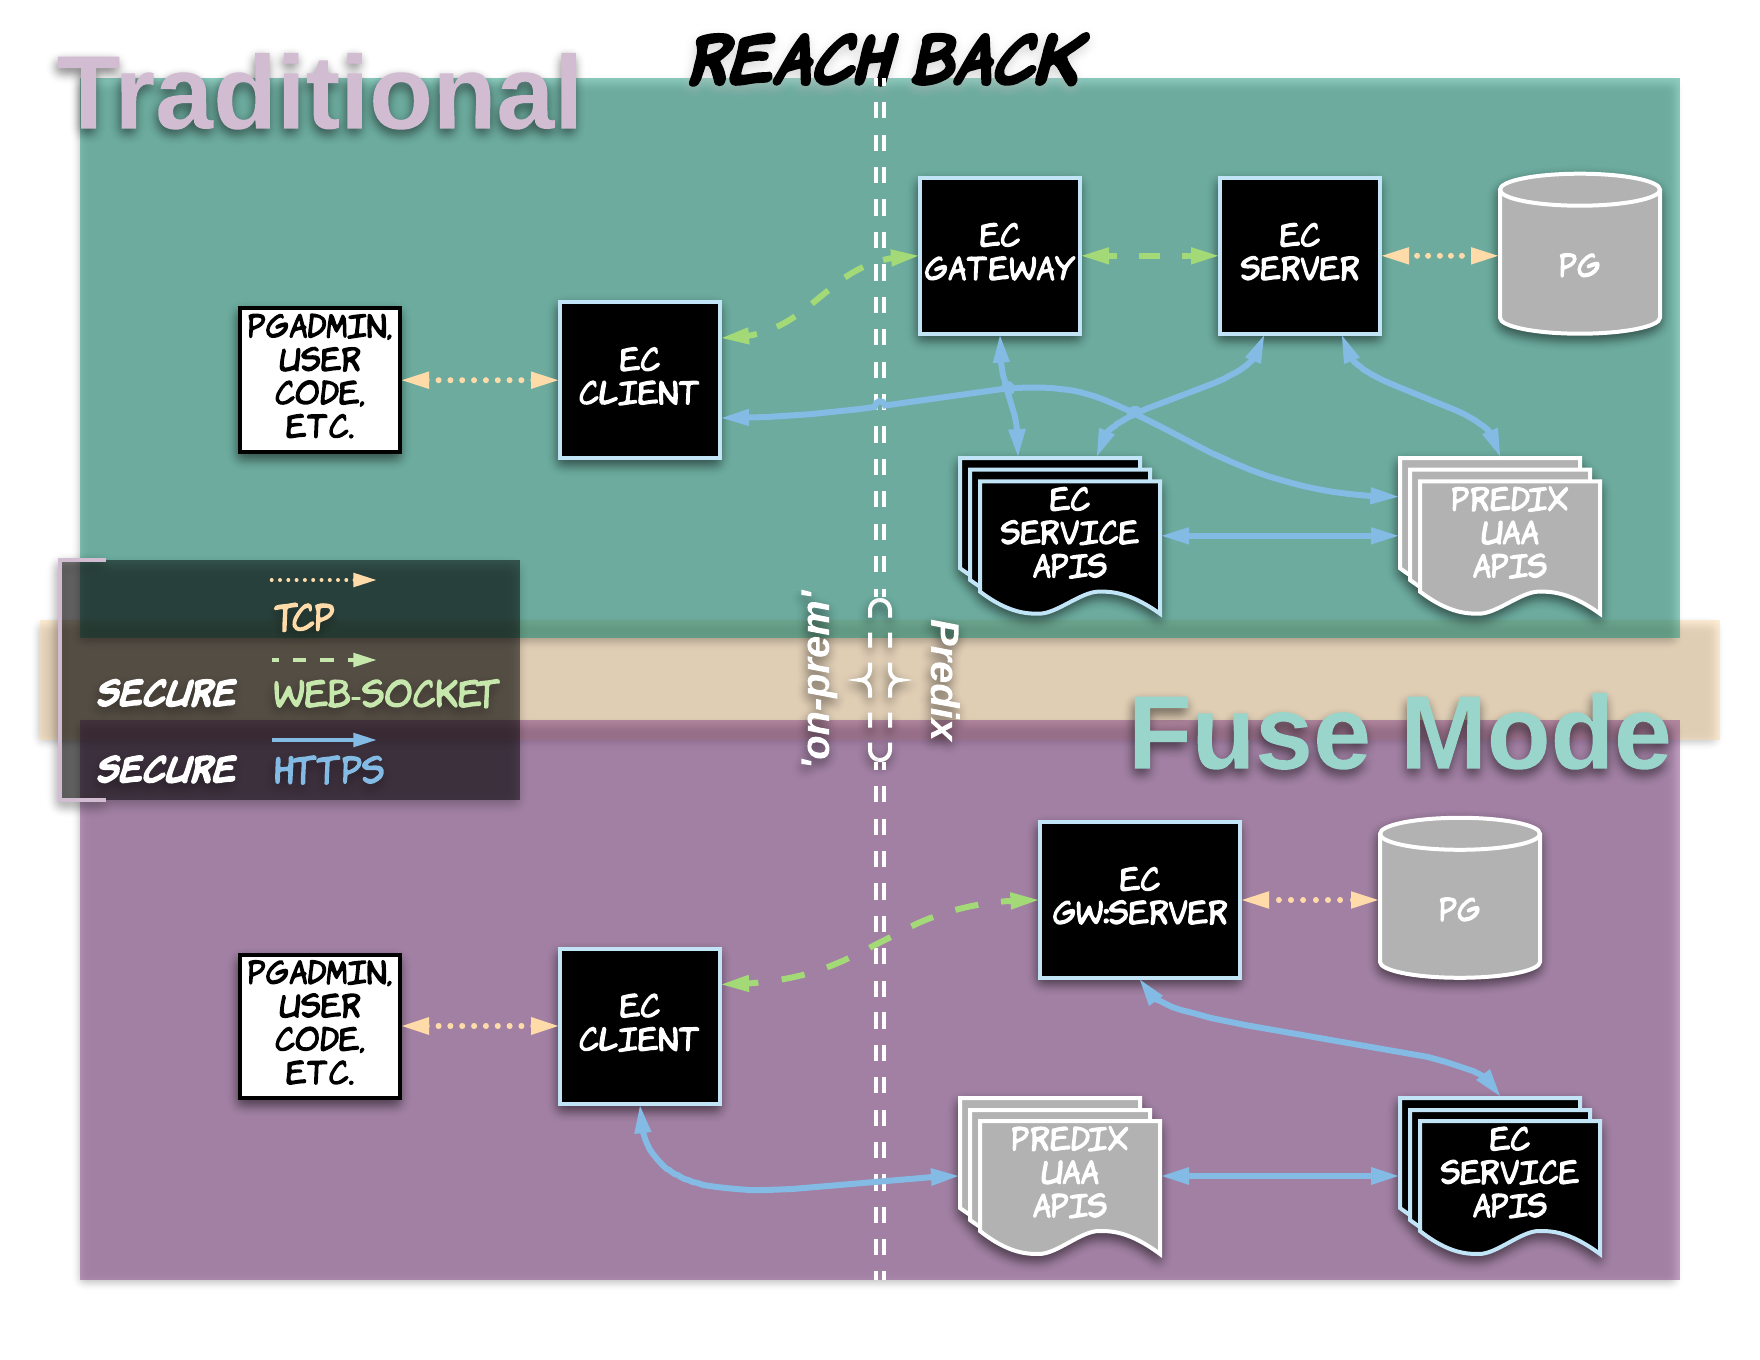
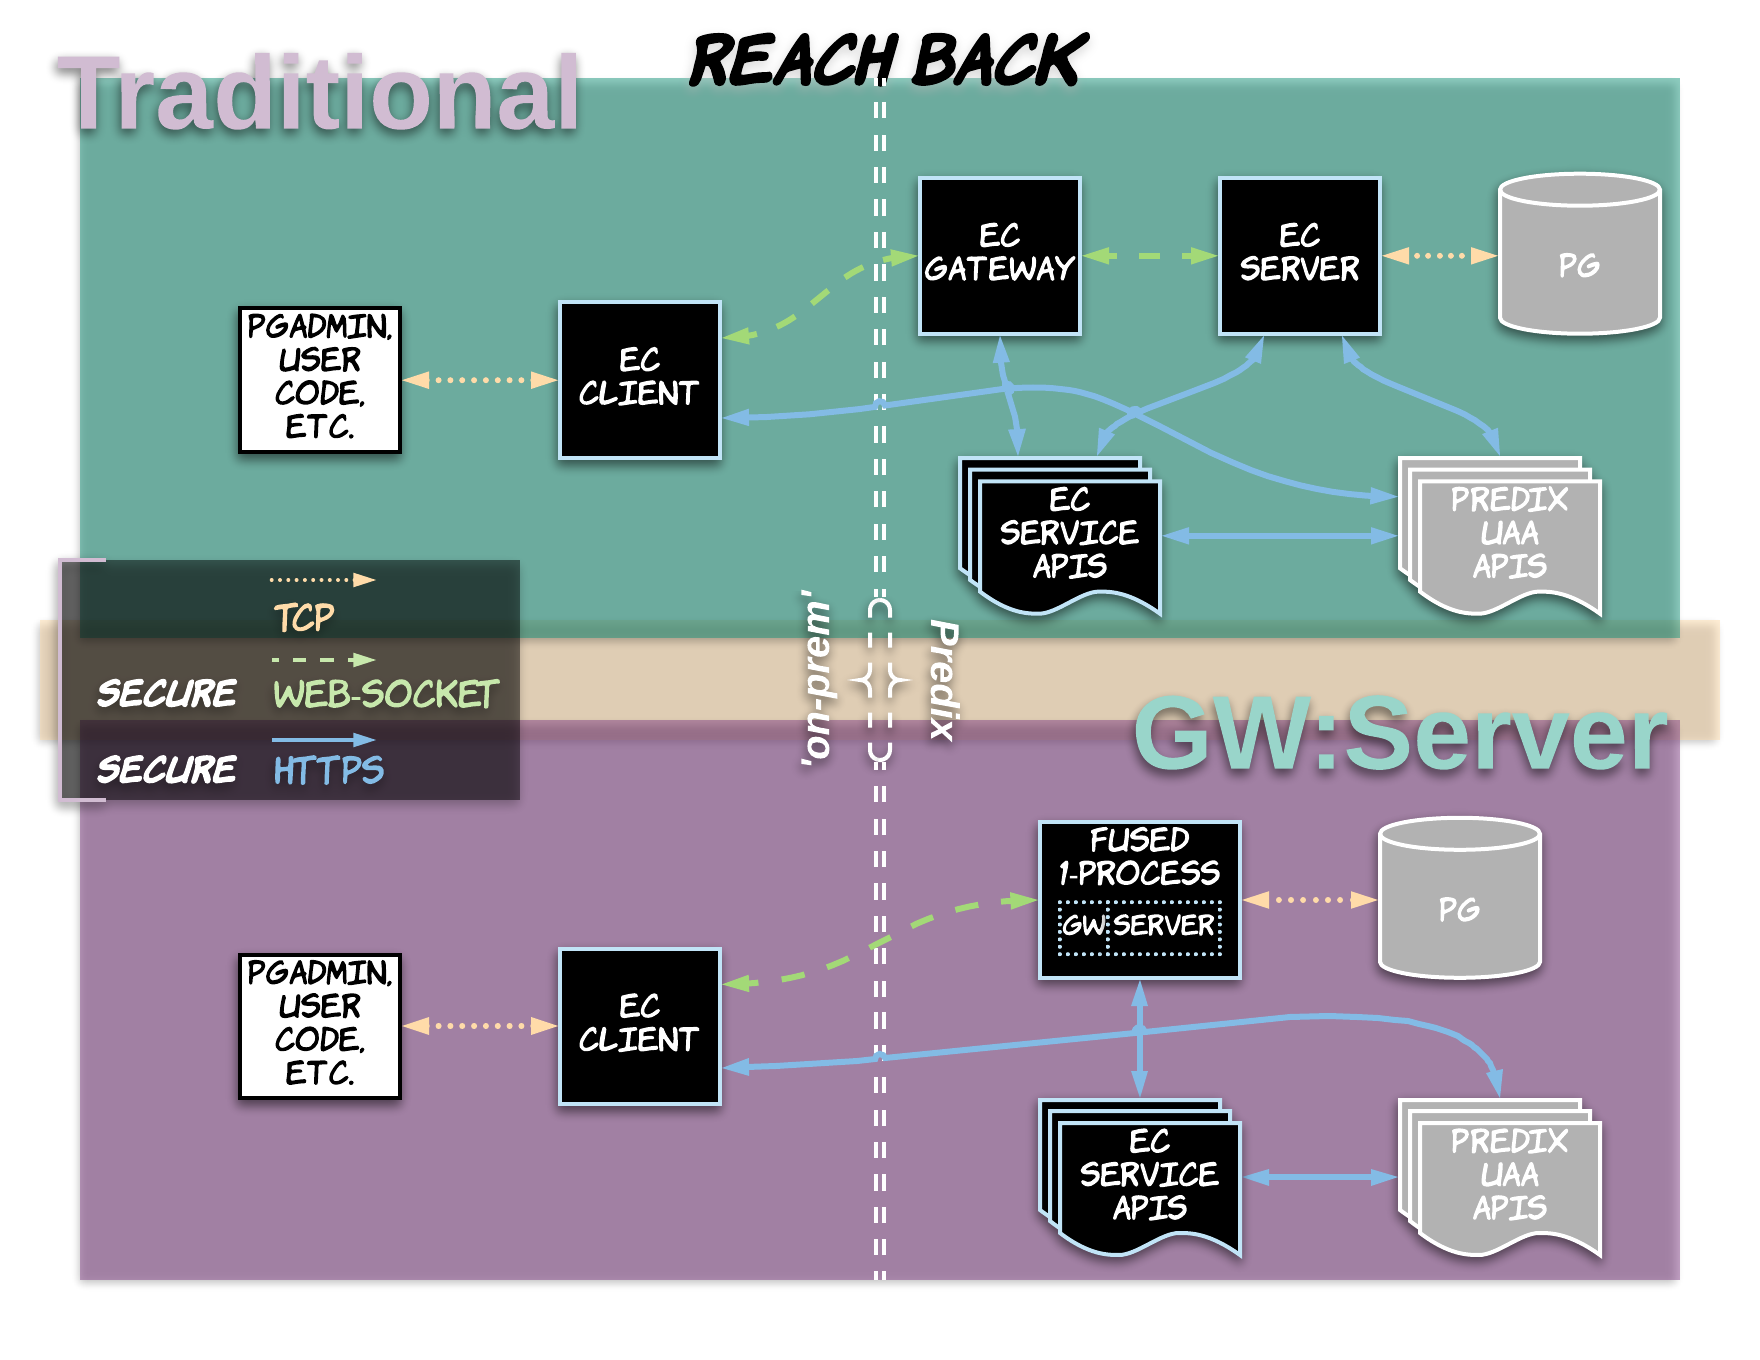
updated some images after feedback, starting to update text content

Changed region(s): [[0.375, 0.4941, 0.9688, 0.9265], [0.4062, 0.7721, 0.5312, 0.8029], [0.3438, 0.8029, 0.375, 0.8338]]

diff --git a/ec-modes.md b/ec-modes.md
@@ -2,43 +2,51 @@
 
 # EC 'Modes' and Use-Case Examples
 
-This document is designed to give a high-level understanding of the two primary 'modes' that EC can be used in ('Fuse Mode' and 'Traditional'), as well as provide abstract examples of very common use cases where EC is utilized. The purpose of the latter is to guide users in understanding how EC will fit into their existing architecture and dependencies, and to help 'visualize' this via provided diagrams.
+In this page you will be able to find all the answers for all things **'modes'**, in regards to Enterprise Connect (EC) use-cases and *agents*. Please note that all links are placed for the ease of navigation in subsequent reads and visits, but the information is intended to be digestable in a flowing and linear way, start to finish.
 
 * [What are 'Modes'?](#what-are-modes)
-* [Use-Case Examples](#use-case-examples)
+* [Choosing Between Modes](#choosing-between-modes)
+* [Use-Case Mode Comparison](#use-case-mode-comparison)
 
----
 
 ## What are 'Modes'?
 
-Up until late 2018, the EC agents primarily only ran in a single way, or 'mode'. That is, for the most basic use case, users would need to run an EC agent gateway, an EC agent server, and an EC agent client. This is still completely valid, and will be referred to as **traditional mode**. 
+For the context of this page and topic, 'mode' can refer to one of five *agent* **modes**, or the choice between using **tradititonal** *agents* vs **fused** *agents*. 
 
-As of January 2019, a new mode is available (in beta, pending production release) in which either the EC agent gateway and server processes are *fused* into a single process, or the EC agent gateway and client processes are *fused* into a single process. This results in a secure streamlining of various authorizations, and results in fewer API calls for EC-side purposes, such as the EC agent server fetching a 'gateway list' from the EC Service APIs. This is what we call **fuse mode**.
+---
 
-* [Traditional Modes](#traditional-modes)
-* [Fuse Modes](#fuse-modes)
+First, on a high-level, we can look at the way in which the EC landscape is laid out as a 'mode' of sorts: either [**traditional mode**](#traditional-modes) which uses a [**traditonal** *agent gateway*](#gateway-mode), or [**fuse mode**](#fuse-modes) which combines either the *agent server* or *agent client* with the *agent gateway* into a single process which streamlines and reduces some network activity.
+
+Then, on the *EC Agent* level, there are 5 distinct *agent* **modes** available: **gateway**, **server**, **client**, **gw:server**, and **gw:client**. Read and click on to learn more about these modes.
+
 * [Choosing Between Modes](#choosing-between-modes)
 
 ### Traditional Modes
 
-> The traditional mode consists of running at least three EC agents: a gateway, a server, and a client. 
+The **traditional mode** consists of running at least three *EC Agents*: a *server*, a *client*, and most importantly a **traditional** *gateway*. 
+
+#### Gateway Mode
+> The *EC Agent* running in **gateway mode** serves as the foundation for **client** and **server** interactions, by making available a 'public' URL that the other *agents* can access to establish a secure web-socket.
 
 ![Gateway Mode](./.images/gatewayMode.png) 
-> The EC *agent* running in **gateway mode** serves as the foundation for **client** and **server** interactions, by making available a 'public' URL that the other *agents* can access to establish a secure web-socket.
+
+#### Server Mode
+> The *EC Agent* running in **server mode** is configured to a specific 'resource', oftentimes a database, based on the resource's IP and port.
 
 ![Server Mode](./.images/serverMode.png) 
-> The EC *agent* running in **server mode** is configured to a specific 'resource', oftentimes a database, based on the resource's IP and port.
+
+#### Client Mode
+> The *EC Agent* running in **client mode** is configured to a specific *EC Agent* **server**, via *agent* ID, and listens ot a user-specified port on the localhost/127.0.0.1 where it is ran. Any connection string that would be valid for the remote resource the *EC Agent* **server** is configured for, can now be accessed locally by replacing the IP with 'localhost' and the port with the one the *EC Agent* **client** is listening on.
 
 ![Client Mode](./.images/clientMode.png)
-> The EC *agent* running in **client mode** is configured to a specific EC *agent* **server**, via *agent* ID, and listens ot a user-specified port on the localhost/127.0.0.1 where it is ran. Any connection string that would be valid for the remote resource the EC *agent* **server** is configured for, can now be accessed locally by replacing the IP with 'localhost' and the port with the one the EC *agent* **client** is listening on.
 
-<A HREF="#what-are-modes">What are 'Modes'?</A>
+* [What are 'Modes'?](#what-are-modes)
 
 <A HREF="#top">Back To Top</A>
 
 ### Fuse Modes
 
-When running in fuse mode, either the client or server agent process is 'fused' with the Gateway app/process. This allows for a secure streamlining of previous subprocesses, 'hops', calls, etc., which leaves more resources for transferring data.
+The **fuse mode** consists of running an *agent gateway* **fused** with either an *agent server* or *agent client*, and the complimentary, remaining *agent* **mode**. 
 
 - Gateway:Server
 	- Ran where the 'data' is, within the same environment/network
@@ -49,48 +57,38 @@ When running in fuse mode, either the client or server agent process is 'fused' 
 	- Ran where the data is needed
 	- (WIP) 
 
-<A HREF="#what-are-modes">What are 'Modes'?</A>
+* [What are 'Modes'?](#what-are-modes)
 
 <A HREF="#top">Back To Top</A>
 
-### Choosing Between Modes
+## Choosing Between Modes
 
-While you can expect better overall performance from **fuse mode**, some teams and use-cases may inherently favor the decoupling of agents for manageability or other considerations. Additionally, for existing EC configurations, switching over to **fuse mode** from **traditional mode** may be more challenging than the potential gains merit.
+While you can expect better overall performance from [**fuse mode**](#fuse-modes), some teams and use-cases may inherently favor the decoupling of *agents* for manageability or other considerations. Additionally, for existing EC configurations, switching over to [**fused**](#fuse-modes) from [**traditional**](#traditional-modes) may be more challenging than the potential gains merit. It is best to spend time exploring the pros and cons with all parties affected by configuration changes, but in the long run, [**fuse mode**](#fuse-modes) can provide better overall efficiency in terms of speed and failure rates (both [**fuse mode**](#fuse-modes) and [**traditional**](#traditional-modes) *agents* maintain less than a 1% failure rate based on postgres transactions that can not be summarily explained by failure of other actors).
 
-<A HREF="#what-are-modes">What are 'Modes'?</A>
+* [What are 'Modes'?](#what-are-modes)
+* [Traditional Modes](#traditional-modes)
+* [Fuse Modes](#fuse-modes)
 
 <A HREF="#top">Back To Top</A>
 
 ---
 
-## Use-Case Examples
+## Use-Case Mode Comparison
 
-Please see the following examples, diagrams and pictures, which are intended to give a slightly abstracted view of how EC is able to fit into a variety of use-cases and existing, high-level system architectures. 
-
-* [Cloud Data, Reach-Back](#cloud-data-reach-back)
-* [On-Prem Data, Reach-In](#on-prem-data-reach-in)
+In the following diagrams, we explore how network activity is simplified in [**fuse mode**](#fuse-modes) compared to [**traditional**](#traditional-modes) by taking a look at the two most common use-cases which, with a little imagination, cover the vast majority of other, more complex use-cases.
 
 
-### Cloud Data, Reach-Back
+### Cloud Data, GW:Server
 
-In this example, we need to get data from Postgres in Predix to an application on-prem, which has no way of natively communicating with the Postgres instance.
+> In this example, we need to get data from Postgres in Predix to an application on-prem, which has no way of natively communicating with the Postgres instance.
 
 ![Reach-Back Comparison](./.images/sideBySideReachBack.png)
 
-<A HREF="#use-case-examples">Use-Case Examples</A>
+### On-Prem Data, GW:Client
 
-<A HREF="#top">Back To Top</A>
-
-
-### On-Prem Data, Reach-In
-
-In this example, we need to 'reach in' to the GE Network to access data that is needed by our application in Cloud Foundry. We *must* 'embed' the EC Agent Client in this application to run as a sub-process.
-
-#### Side-By-Side Activity Comparison
+> In this example, we need to 'reach in' to the GE Network to access data that is needed by our application in Cloud Foundry. We *must* 'embed' the *EC Agent client* in this application to run as a sub-process.
 
 ![Reach-Back Comparison](./.images/sideBySideReachIn.png)
-
-<A HREF="#use-case-examples">Use-Case Examples</A>
 
 <A HREF="#top">Back To Top</A>
 
@@ -98,4 +96,7 @@ In this example, we need to 'reach in' to the GE Network to access data that is 
 
 
 # Notes
-- diagram difference between fuse mode and traditional mode
+- [ ] Separate networks more clearly
+- [ ] GW:Client
+- [ ] GW:Server
+- [ ] Comparison Graphs
